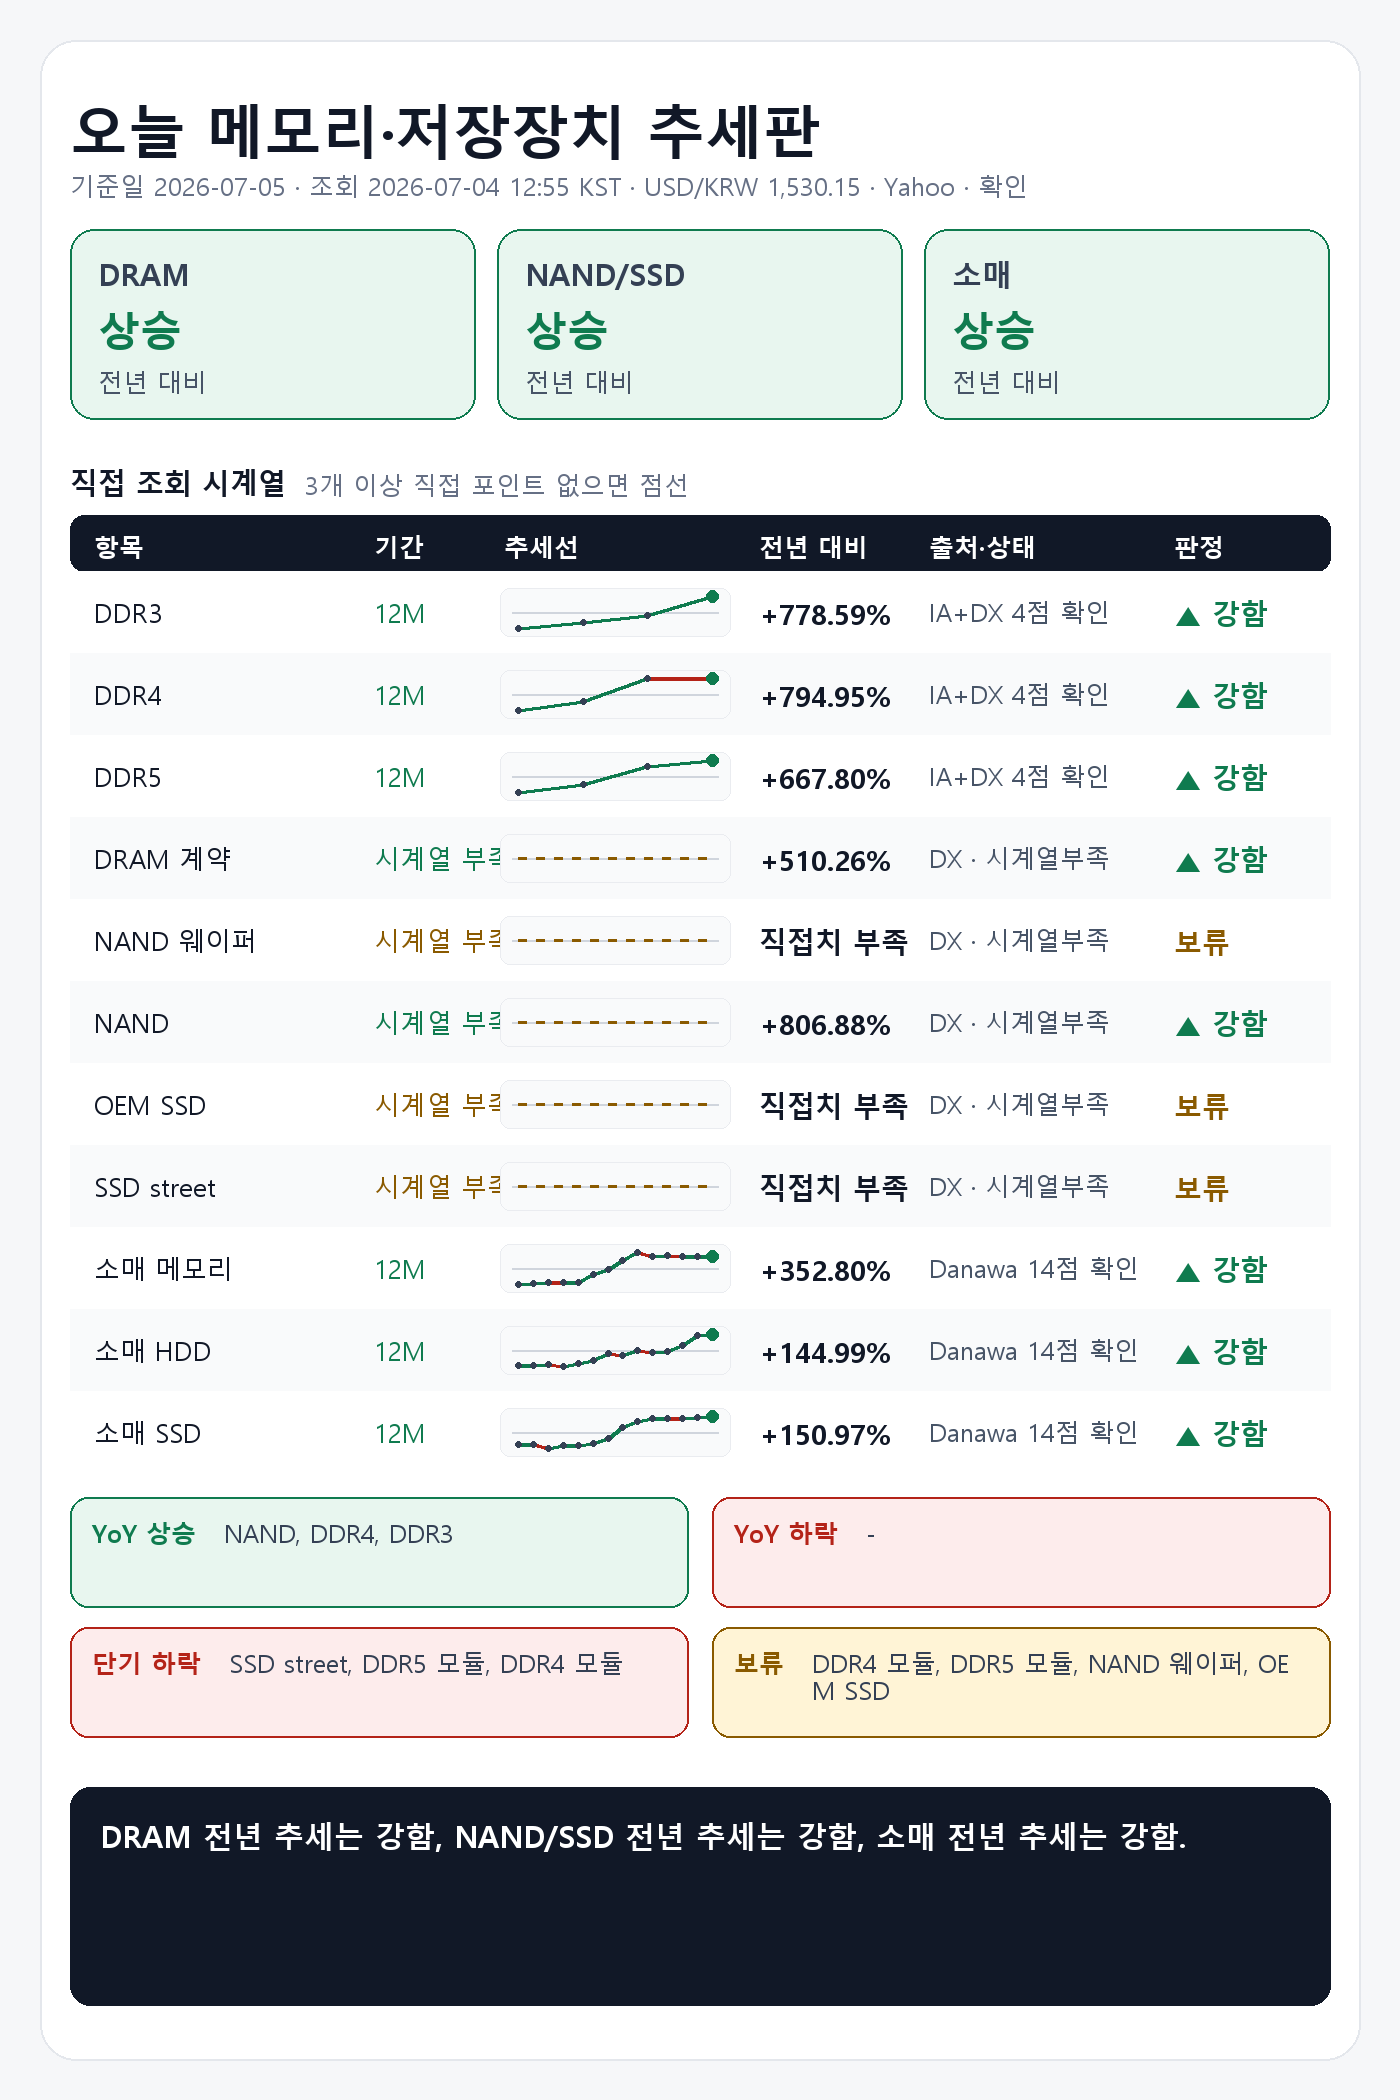
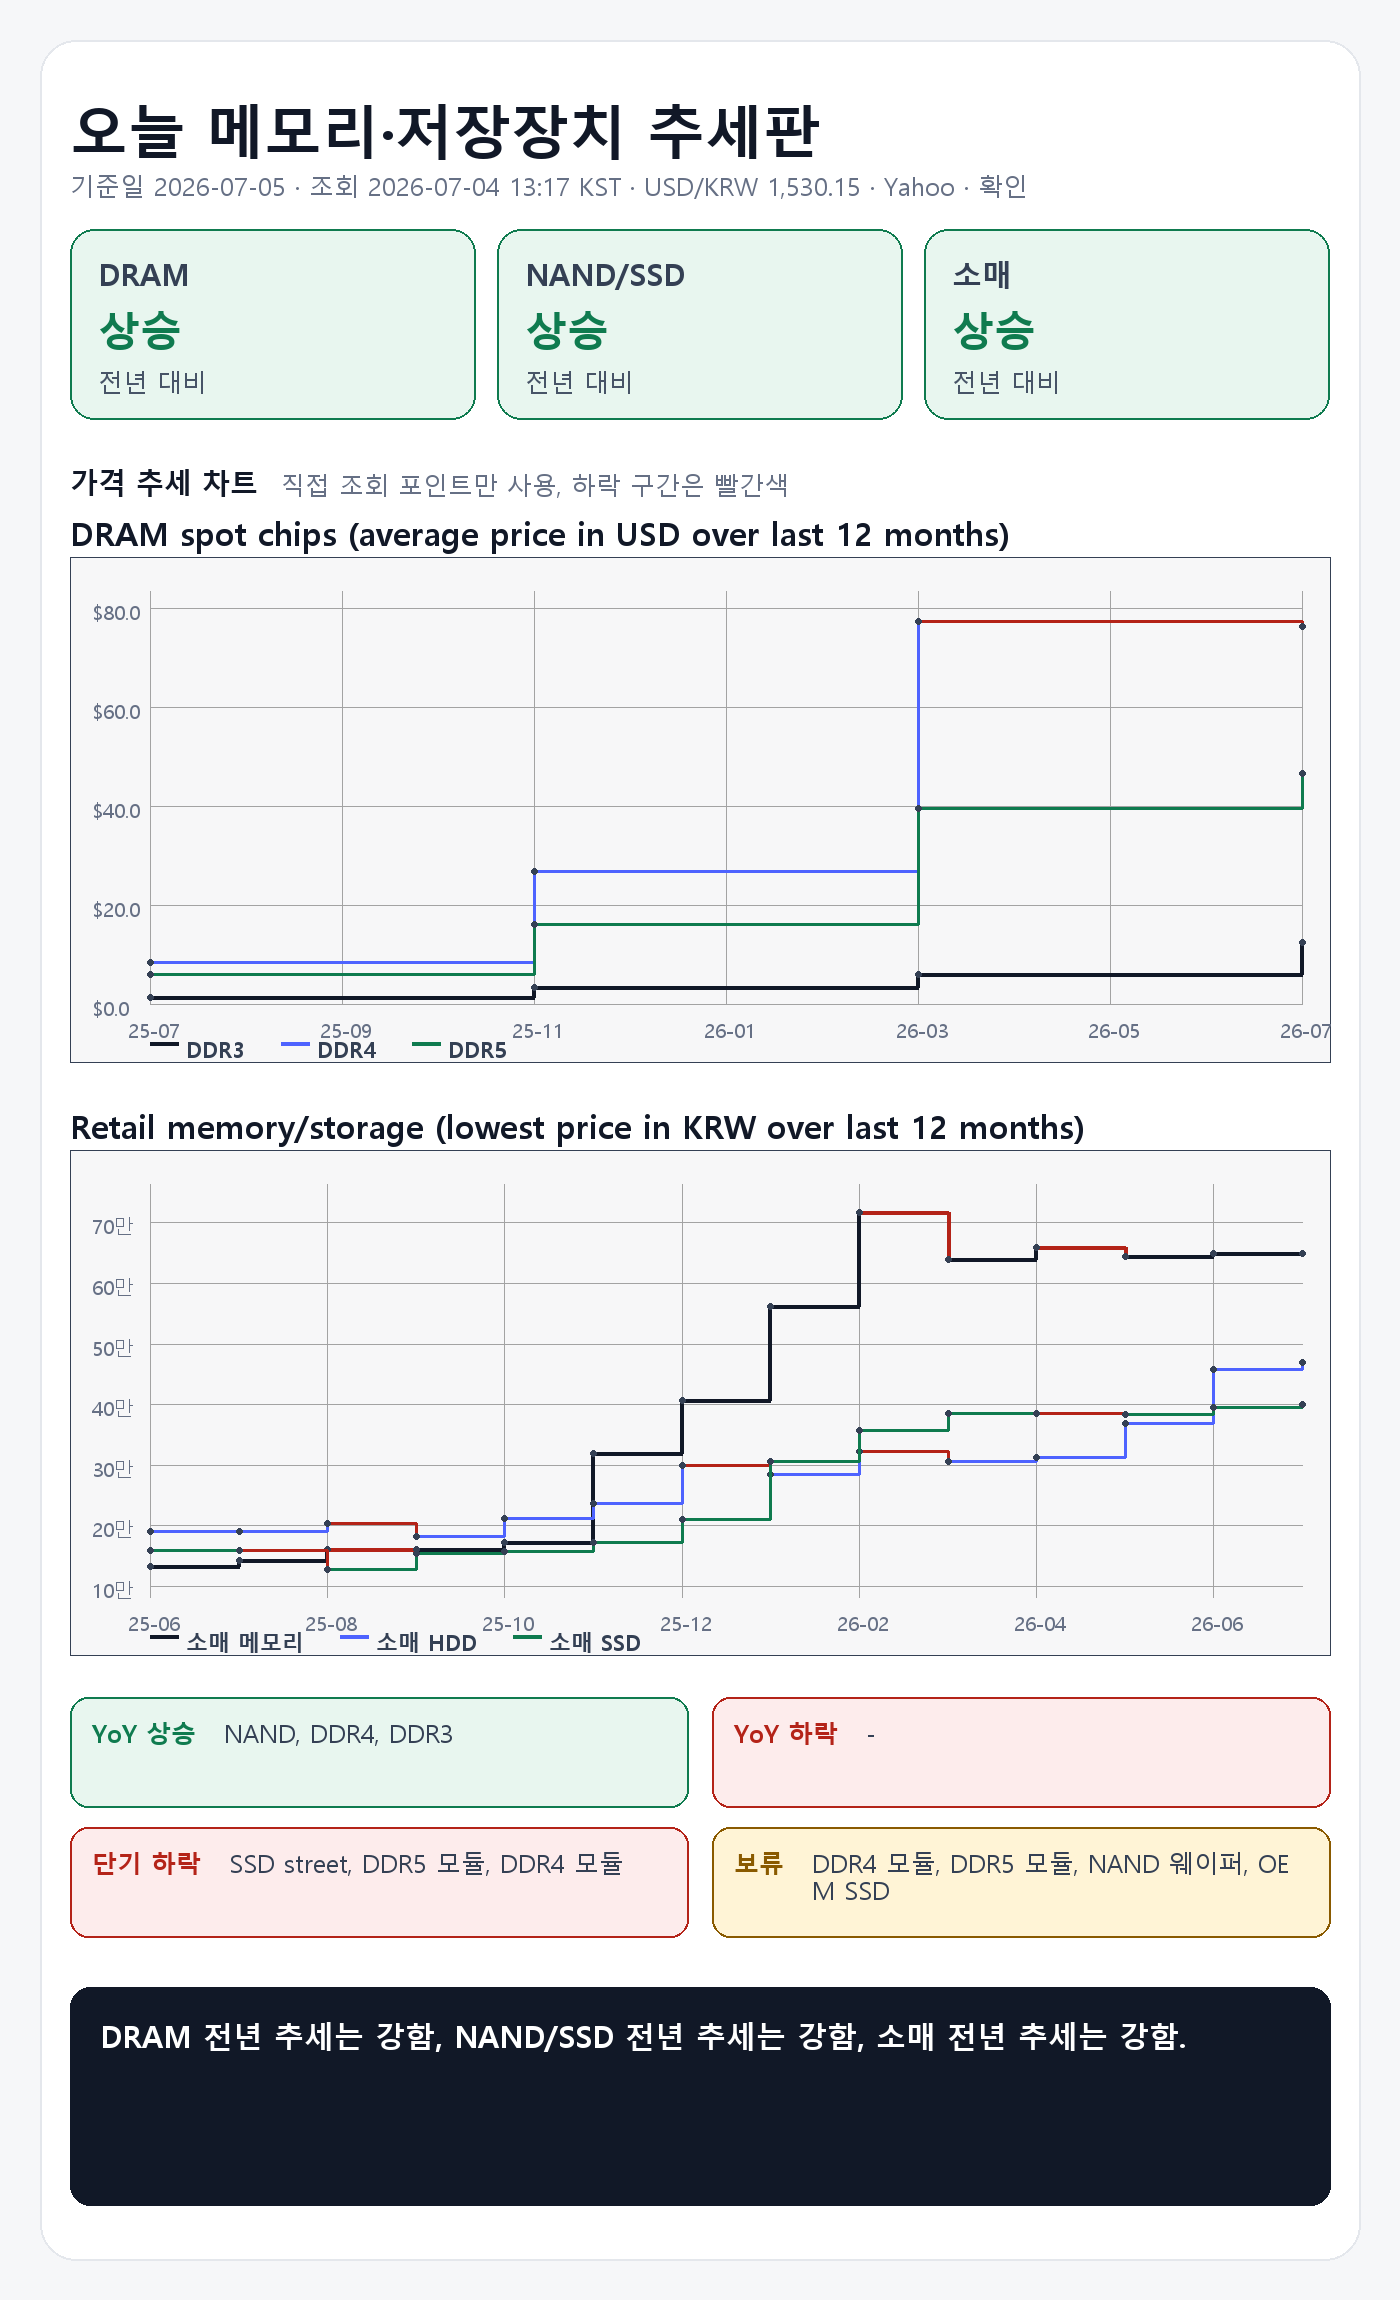
Use PCPartPicker-style trend charts

diff --git a/scripts/generate_memory_price_report.py b/scripts/generate_memory_price_report.py
@@ -1315,6 +1315,21 @@ def build_card_data(records: list[ReportRecord], rate: ExchangeRate, conclusion:
         candidates.sort(key=lambda record: record.change_pct or 0)
         return [compact_label(record.label) for record in candidates[:limit]]
 
+    def chart_series(wanted_labels: list[str]) -> list[dict[str, Any]]:
+        series: list[dict[str, Any]] = []
+        for wanted in wanted_labels:
+            record = next((item for item in records if base_label(item).startswith(wanted)), None)
+            if record is None:
+                continue
+            points = [
+                {"label": point.label, "value": point.value}
+                for point in record.trend_points
+                if point.value > 0
+            ]
+            if len(points) >= 3:
+                series.append({"label": compact_label(record.label), "unit": record.value_unit, "points": points})
+        return series
+
     summaries = summarize(records)
     priorities = [
         "DDR3 칩",
@@ -1364,6 +1379,18 @@ def build_card_data(records: list[ReportRecord], rate: ExchangeRate, conclusion:
         "title": "오늘 메모리·저장장치 추세판",
         "meta": f"기준일 {TODAY} · 조회 {QUERY_TIME} · {rate_text}",
         "boxes": [box("DRAM", "DRAM"), box("NAND/SSD", "NAND/SSD"), box("소매", "소매")],
+        "charts": [
+            {
+                "title": "DRAM spot chips (average price in USD over last 12 months)",
+                "unit": "USD",
+                "series": chart_series(["DDR3 칩", "DDR4 칩", "DDR5 칩"]),
+            },
+            {
+                "title": "Retail memory/storage (lowest price in KRW over last 12 months)",
+                "unit": "KRW",
+                "series": chart_series(["소매 메모리", "소매 HDD", "소매 SSD"]),
+            },
+        ],
         "rows": rows,
         "chips": {
             "YoY 상승": card_change_items("강함", 3),
@@ -1486,8 +1513,177 @@ def draw_trend_line(
     draw.ellipse((end_x - 6, end_y - 6, end_x + 6, end_y + 6), fill=end_color)
 
 
+def month_index(label: str) -> int | None:
+    match = re.search(r"(\d{2,4})-(\d{2})", label or "")
+    if not match:
+        return None
+    year = int(match.group(1))
+    if year < 100:
+        year += 2000
+    month = int(match.group(2))
+    if month < 1 or month > 12:
+        return None
+    return year * 12 + month - 1
+
+
+def month_label_from_index(index: int) -> str:
+    year = index // 12
+    month = index % 12 + 1
+    return f"{year % 100:02d}-{month:02d}"
+
+
+def format_chart_value(value: float, unit: str) -> str:
+    if unit == "KRW":
+        if value >= 10000:
+            return f"{round(value / 10000):,}만"
+        return f"{round(value):,}원"
+    if unit == "USD":
+        if value >= 100:
+            return f"${value:,.0f}"
+        return f"${value:,.1f}"
+    return f"{value:,.0f}"
+
+
+def nice_ticks(min_value: float, max_value: float, count: int = 6) -> list[float]:
+    if max_value <= min_value:
+        return [min_value]
+    span = max_value - min_value
+    raw_step = span / max(1, count - 1)
+    magnitude = 10 ** int(len(str(int(raw_step))) - 1) if raw_step >= 1 else 1
+    candidates = [1, 2, 5, 10]
+    step = min((candidate * magnitude for candidate in candidates), key=lambda item: abs(item - raw_step))
+    floor = (int(min_value // step)) * step
+    ticks: list[float] = []
+    value = floor
+    while value <= max_value + step:
+        if value >= 0:
+            ticks.append(float(value))
+        value += step
+    return ticks[: count + 2]
+
+
+def draw_step_series(
+    draw: ImageDraw.ImageDraw,
+    points: list[tuple[int, float]],
+    chart_left: int,
+    chart_top: int,
+    chart_right: int,
+    chart_bottom: int,
+    min_month: int,
+    max_month: int,
+    min_value: float,
+    max_value: float,
+    color: str,
+    width: int,
+) -> None:
+    if len(points) < 2:
+        return
+    month_span = max(1, max_month - min_month)
+    value_span = max(max_value - min_value, max_value * 0.02, 1e-9)
+
+    def xy(month: int, value: float) -> tuple[int, int]:
+        x = chart_left + round((month - min_month) / month_span * (chart_right - chart_left))
+        y = chart_bottom - round((value - min_value) / value_span * (chart_bottom - chart_top))
+        return x, y
+
+    coords = [(month, value, *xy(month, value)) for month, value in points]
+    for idx in range(len(coords) - 1):
+        _, current_value, x1, y1 = coords[idx]
+        _, next_value, x2, y2 = coords[idx + 1]
+        segment_color = "#B42318" if next_value < current_value else color
+        draw.line((x1, y1, x2, y1), fill=segment_color, width=width)
+        draw.line((x2, y1, x2, y2), fill=segment_color, width=width)
+    for _, _, x, y in coords:
+        draw.ellipse((x - 3, y - 3, x + 3, y + 3), fill="#344054")
+
+
+def draw_price_chart(
+    draw: ImageDraw.ImageDraw,
+    chart: dict[str, Any],
+    x: int,
+    y: int,
+    width: int,
+    height: int,
+    title_font: ImageFont.ImageFont,
+    axis_font: ImageFont.ImageFont,
+    legend_font: ImageFont.ImageFont,
+) -> None:
+    title = str(chart.get("title") or "Price trend")
+    unit = str(chart.get("unit") or "")
+    series = [item for item in chart.get("series", []) if isinstance(item, dict) and item.get("points")]
+    draw.text((x, y), title, font=title_font, fill="#111827")
+    y += 46
+
+    outer = (x, y, x + width, y + height)
+    draw.rectangle(outer, fill="#F7F7F8", outline="#344054", width=1)
+    left = x + 80
+    right = x + width - 28
+    top = y + 34
+    bottom = y + height - 58
+
+    parsed_series: list[tuple[str, list[tuple[int, float]]]] = []
+    values: list[float] = []
+    months: list[int] = []
+    for item in series:
+        parsed_points: list[tuple[int, float]] = []
+        for point in item.get("points", []):
+            if not isinstance(point, dict):
+                continue
+            idx = month_index(str(point.get("label") or ""))
+            value = parse_float(point.get("value"))
+            if idx is None or value is None:
+                continue
+            parsed_points.append((idx, value))
+        parsed_points = sorted(dict(parsed_points).items())
+        if len(parsed_points) < 2:
+            continue
+        parsed_series.append((str(item.get("label") or "-"), parsed_points))
+        months.extend(month for month, _ in parsed_points)
+        values.extend(value for _, value in parsed_points)
+
+    if not parsed_series:
+        draw.text((left, top + 100), "직접 조회 시계열 부족", font=title_font, fill="#8A5A00")
+        return
+
+    min_month, max_month = min(months), max(months)
+    min_value, max_value = min(values), max(values)
+    pad = max((max_value - min_value) * 0.08, max_value * 0.02, 1)
+    min_value = max(0, min_value - pad)
+    max_value = max_value + pad
+    ticks = nice_ticks(min_value, max_value, 6)
+
+    for tick in ticks:
+        if tick < min_value or tick > max_value:
+            continue
+        yy = bottom - round((tick - min_value) / max(max_value - min_value, 1e-9) * (bottom - top))
+        draw.line((left, yy, right, yy), fill="#A3A3A3", width=1)
+        label = format_chart_value(tick, unit)
+        draw.text((x + 22, yy - 10), label, font=axis_font, fill="#667085")
+
+    span = max_month - min_month
+    x_step = max(1, round(span / 6))
+    tick_month = min_month
+    while tick_month <= max_month:
+        xx = left + round((tick_month - min_month) / max(1, span) * (right - left))
+        draw.line((xx, top, xx, bottom), fill="#A3A3A3", width=1)
+        draw.text((xx - 22, bottom + 12), month_label_from_index(tick_month), font=axis_font, fill="#667085")
+        tick_month += x_step
+
+    colors = ["#111827", "#4E63FF", "#0F7B4F", "#B54708", "#7A5AF8"]
+    for idx, (label, points) in enumerate(parsed_series):
+        draw_step_series(draw, points, left, top, right, bottom, min_month, max_month, min_value, max_value, colors[idx % len(colors)], 4 if idx == 0 else 3)
+
+    legend_x = left
+    legend_y = y + height - 28
+    for idx, (label, _) in enumerate(parsed_series):
+        color = colors[idx % len(colors)]
+        draw.line((legend_x, legend_y + 9, legend_x + 28, legend_y + 9), fill=color, width=4)
+        draw.text((legend_x + 36, legend_y), label, font=legend_font, fill="#344054")
+        legend_x += min(210, 72 + text_width(draw, label, legend_font))
+
+
 def create_card_png(card: dict[str, Any], output_path: Path) -> None:
-    width, height = 1400, 2100
+    width, height = 1400, 2300
     image = Image.new("RGB", (width, height), "#F6F7F9")
     draw = ImageDraw.Draw(image)
 
@@ -1497,9 +1693,11 @@ def create_card_png(card: dict[str, Any], output_path: Path) -> None:
     box_status_font = font(42, bold=True)
     table_font = font(26)
     table_bold_font = font(28, bold=True)
-    trend_font = font(27, bold=True)
     chip_font = font(25, bold=True)
     conclusion_font = font(30, bold=True)
+    chart_title_font = font(32, bold=True)
+    axis_font = font(20)
+    legend_font = font(22, bold=True)
 
     margin = 70
     draw.rounded_rectangle((40, 40, width - 40, height - 40), radius=36, fill="#FFFFFF", outline="#E4E7EC", width=2)
@@ -1525,41 +1723,14 @@ def create_card_png(card: dict[str, Any], output_path: Path) -> None:
         draw.text((x + 28, y + 135), str(box.get("basis") or UNAVAILABLE), font=meta_font, fill="#475467")
     y += box_h + 44
 
-    draw.text((margin, y), "직접 조회 시계열", font=table_bold_font, fill="#111827")
-    draw.text((margin + 235, y + 4), "3개 이상 직접 포인트 없으면 점선", font=meta_font, fill="#667085")
-    y += 52
-    header_h = 56
-    draw.rounded_rectangle((margin, y, width - margin, y + header_h), radius=14, fill="#111827")
-    headers = [("항목", 0), ("기간", 280), ("추세선", 410), ("전년 대비", 665), ("출처·상태", 835), ("판정", 1080)]
-    for label, offset in headers:
-        draw.text((margin + 24 + offset, y + 14), label, font=chip_font, fill="#FFFFFF")
-    y += header_h
-
-    rows = (card.get("rows") or [])[:11]
-    row_h = 82
-    for idx, row in enumerate(rows):
-        bg = "#FFFFFF" if idx % 2 == 0 else "#F9FAFB"
-        draw.rectangle((margin, y, width - margin, y + row_h), fill=bg)
-        draw.text((margin + 24, y + 23), str(row.get("item") or "-")[:18], font=table_font, fill="#111827")
-        trend = str(row.get("trend") or "보류")
-        trend_pct = row.get("trend_pct")
-        trend_color, _ = status_color(trend)
-        draw.text((margin + 304, y + 23), str(row.get("basis") or "-")[:8], font=table_font, fill=trend_color)
-        series = row.get("series")
-        draw_trend_line(
-            draw,
-            margin + 430,
-            y + 17,
-            trend_pct if isinstance(trend_pct, (int, float)) else None,
-            series if isinstance(series, list) else None,
-        )
-        draw.text((margin + 689, y + 23), str(row.get("change") or "-")[:10], font=table_bold_font, fill="#111827")
-        draw.text((margin + 859, y + 23), str(row.get("source_status") or "-")[:18], font=meta_font, fill="#475467")
-        verdict = str(row.get("verdict") or "보류")
-        color, _ = status_color(verdict)
-        draw.text((margin + 1104, y + 23), verdict[:14], font=table_bold_font, fill=color)
-        y += row_h
-    y += 24
+    draw.text((margin, y), "가격 추세 차트", font=table_bold_font, fill="#111827")
+    draw.text((margin + 210, y + 4), "직접 조회 포인트만 사용, 하락 구간은 빨간색", font=meta_font, fill="#667085")
+    y += 48
+    charts = (card.get("charts") or [])[:2]
+    chart_h = 505
+    for chart in charts:
+        draw_price_chart(draw, chart, margin, y, width - margin * 2, chart_h, chart_title_font, axis_font, legend_font)
+        y += chart_h + 88
 
     chips = card.get("chips") or {}
     chip_labels = ["YoY 상승", "YoY 하락", "단기 하락", "보류"]

diff --git a/reports/memory_price_report_2026-07-05.md b/reports/memory_price_report_2026-07-05.md
@@ -1,5 +1,5 @@
 ## 1. 기준 환율 1줄
-USD/KRW: 1,530.15원 (조회 2026-07-04 12:55 KST, 출처 Yahoo Finance USDKRW=X, 원문 Last Update 2026-07-04 05:27 KST, 상태 확인, 전일 대비 -0.33%).
+USD/KRW: 1,530.15원 (조회 2026-07-04 13:17 KST, 출처 Yahoo Finance USDKRW=X, 원문 Last Update 2026-07-04 05:27 KST, 상태 확인, 전일 대비 -0.33%).
 
 ## 2. 오늘 한눈에 추세판
 | 구분 | 현재값 | 전일 | 전주 | 전월 | 전년 | 추세 | 판정 |
@@ -27,19 +27,19 @@ USD/KRW: 1,530.15원 (조회 2026-07-04 12:55 KST, 출처 Yahoo Finance USDKRW=X
 ## 4. 가격표
 | 항목 | 현재값 | 조회 시각·출처·상태 | 원문 Last Update | 전월 대비 | 전년 대비 | 추세 |
 |---|---:|---|---|---|---|---|
-| DDR3 칩 | $12.476 (약 19,090원) | 2026-07-04 12:55 KST · DRAMeXchange 공개표 (https://www.dramexchange.com/Price/Dram_Spot) · 상태 확인 | 홈 공개표, 원문 Last Update 별도 없음 | 확인 불가 | 전년 대비 +778.59% · 전년값 캡처 2025-07-02 04:01 KST, 원문 Last Update 별도 없음, 항목 DDR3 4Gb 512Mx8 1600/1866 · 출처 Internet Archive DRAMeXchange 공개표 캡처 | 공개 변화율 +1.09% 기준 상승 |
-| DDR4 칩 | $76.375 (약 116,865원) | 2026-07-04 12:55 KST · DRAMeXchange 공개표 (https://www.dramexchange.com/Price/Dram_Spot) · 상태 확인 | 홈 공개표, 원문 Last Update 별도 없음 | 확인 불가 | 전년 대비 +794.95% · 전년값 캡처 2025-07-02 04:01 KST, 원문 Last Update 별도 없음, 항목 DDR4 16Gb (2Gx8)3200 · 출처 Internet Archive DRAMeXchange 공개표 캡처 | 공개 변화율 +1.16% 기준 상승 |
-| DDR5 칩 | $46.667 (약 71,408원) | 2026-07-04 12:55 KST · DRAMeXchange 공개표 (https://www.dramexchange.com/Price/Dram_Spot) · 상태 확인 | 홈 공개표, 원문 Last Update 별도 없음 | 확인 불가 | 전년 대비 +667.80% · 전년값 캡처 2025-07-02 04:01 KST, 원문 Last Update 별도 없음, 항목 DDR5 16G (2Gx8) 4800/5600 · 출처 Internet Archive DRAMeXchange 공개표 캡처 | 공개 변화율 +0.07% 기준 보합 |
-| DDR4 모듈 | $149.576 (약 228,874원) | 2026-07-04 12:55 KST · DRAMeXchange 공개표 (https://www.dramexchange.com/Price/Module_Spot) · 상태 확인 | 홈 공개표, 원문 Last Update 별도 없음 | 확인 불가 | 전년 직접치 부족 | 공개 변화율 -0.23% 기준 보합 |
-| DDR5 모듈 | $208.500 (약 319,036원) | 2026-07-04 12:55 KST · DRAMeXchange 공개표 (https://www.dramexchange.com/Price/Module_Spot) · 상태 확인 | 홈 공개표, 원문 Last Update 별도 없음 | 확인 불가 | 전년 직접치 부족 | 공개 변화율 -0.24% 기준 보합 |
-| DRAM 계약가 (DDR4 8GB SO-DIMM) | $119.000 (약 182,088원) | 2026-07-04 12:55 KST · DRAMeXchange HomePrice NationalDramContract (https://www.dramexchange.com/Price/NationalContractDramDetail) · 상태 확인 | 2026-05-29 15:00:00 | 공개 변화율 +0.00%, 기준값 확인 불가 | 전년 대비 +510.26% · 전년값 원문 2025-05-29 16:00:00, 캡처 2025-07-07 16:02 KST · 출처 Internet Archive DRAMeXchange HomePrice NationalDramContract 캡처 | 공개 변화율 +0.00% 기준 보합 |
-| NAND 웨이퍼 | 확인 불가 | 2026-07-04 12:55 KST · DRAMeXchange 공개표 (https://www.dramexchange.com/) · 상태 확인 불가 | 확인 불가 | 확인 불가 | 현재 직접치 부족 | 확인 불가 |
-| NAND 계약가 (NAND 128Gb 16Gx8 Speedns) | $26.508 (약 40,561원) | 2026-07-04 12:55 KST · DRAMeXchange HomePrice NationalFlashContract (https://www.dramexchange.com/Price/NationalContractFlashDetail) · 상태 확인 | 2026-05-29 10:00:00 | 공개 변화율 +9.73%, 기준값 확인 불가 | 전년 대비 +806.88% · 전년값 원문 2025-05-29 09:00:00, 캡처 2025-07-07 16:02 KST · 출처 Internet Archive DRAMeXchange HomePrice NationalFlashContract 캡처 | 공개 변화율 +9.73% 기준 상승 |
-| PC-client OEM SSD 계약가 (1TB-mSATA/M.2 TLC PCIe-Value Grade) | 지연/불일치 있음 | 2026-07-04 12:55 KST · DRAMeXchange HomePrice PCC (https://www.dramexchange.com/Price/PCClientOEMSSD) · 상태 지연/불일치 있음 | 2026-04-27 10:00:00 | 지연/불일치 있음 | 현재 직접치 부족 | 지연/불일치 있음 |
-| SSD street price (990 Pro) | $219.990 (약 336,618원) | 2026-07-04 12:55 KST · DRAMeXchange HomePrice SSD (https://www.dramexchange.com/Price/SSD_Street) · 상태 확인 | 2026-06-26 13:00:00 | 공개 변화율 -12.00%, 기준값 확인 불가 | 전년 직접치 부족 | 공개 변화율 -12.00% 기준 하락 |
-| 소매 메모리 (삼성전자 DDR5-5600 32GB) | 650,000원 | 2026-07-04 12:55 KST · Danawa prod 가격비교 · 삼성전자 DDR5-5600 32GB (https://prod.danawa.com/info/?pcode=20644043) · 상태 확인 | 상품 페이지 직접 조회, 원문 Last Update 별도 없음 | 확인 불가 | 전년 대비 +352.80% · 전년값 25-07 월간 가격추이 · 출처 Danawa 가격추이 24개월 · 삼성전자 DDR5-5600 32GB | 비교 기준값 확인 불가 |
-| 소매 HDD (Seagate BarraCuda 8TB) | 469,000원 | 2026-07-04 12:55 KST · Danawa prod 가격비교 · Seagate BarraCuda 8TB (https://prod.danawa.com/info/?pcode=5764992) · 상태 확인 | 상품 페이지 직접 조회, 원문 Last Update 별도 없음 | 확인 불가 | 전년 대비 +144.99% · 전년값 25-07 월간 가격추이 · 출처 Danawa 가격추이 24개월 · Seagate BarraCuda 8TB | 비교 기준값 확인 불가 |
-| 소매 SSD (Samsung 990 PRO 1TB) | 399,990원 | 2026-07-04 12:55 KST · Danawa prod 가격비교 · Samsung 990 PRO 1TB (https://prod.danawa.com/info/?pcode=18297002) · 상태 확인 | 상품 페이지 직접 조회, 원문 Last Update 별도 없음 | 확인 불가 | 전년 대비 +150.97% · 전년값 25-07 월간 가격추이 · 출처 Danawa 가격추이 24개월 · Samsung 990 PRO 1TB | 비교 기준값 확인 불가 |
+| DDR3 칩 | $12.476 (약 19,090원) | 2026-07-04 13:17 KST · DRAMeXchange 공개표 (https://www.dramexchange.com/Price/Dram_Spot) · 상태 확인 | 홈 공개표, 원문 Last Update 별도 없음 | 확인 불가 | 전년 대비 +778.59% · 전년값 캡처 2025-07-02 04:01 KST, 원문 Last Update 별도 없음, 항목 DDR3 4Gb 512Mx8 1600/1866 · 출처 Internet Archive DRAMeXchange 공개표 캡처 | 공개 변화율 +1.09% 기준 상승 |
+| DDR4 칩 | $76.375 (약 116,865원) | 2026-07-04 13:17 KST · DRAMeXchange 공개표 (https://www.dramexchange.com/Price/Dram_Spot) · 상태 확인 | 홈 공개표, 원문 Last Update 별도 없음 | 확인 불가 | 전년 대비 +794.95% · 전년값 캡처 2025-07-02 04:01 KST, 원문 Last Update 별도 없음, 항목 DDR4 16Gb (2Gx8)3200 · 출처 Internet Archive DRAMeXchange 공개표 캡처 | 공개 변화율 +1.16% 기준 상승 |
+| DDR5 칩 | $46.667 (약 71,408원) | 2026-07-04 13:17 KST · DRAMeXchange 공개표 (https://www.dramexchange.com/Price/Dram_Spot) · 상태 확인 | 홈 공개표, 원문 Last Update 별도 없음 | 확인 불가 | 전년 대비 +667.80% · 전년값 캡처 2025-07-02 04:01 KST, 원문 Last Update 별도 없음, 항목 DDR5 16G (2Gx8) 4800/5600 · 출처 Internet Archive DRAMeXchange 공개표 캡처 | 공개 변화율 +0.07% 기준 보합 |
+| DDR4 모듈 | $149.576 (약 228,874원) | 2026-07-04 13:17 KST · DRAMeXchange 공개표 (https://www.dramexchange.com/Price/Module_Spot) · 상태 확인 | 홈 공개표, 원문 Last Update 별도 없음 | 확인 불가 | 전년 직접치 부족 | 공개 변화율 -0.23% 기준 보합 |
+| DDR5 모듈 | $208.500 (약 319,036원) | 2026-07-04 13:17 KST · DRAMeXchange 공개표 (https://www.dramexchange.com/Price/Module_Spot) · 상태 확인 | 홈 공개표, 원문 Last Update 별도 없음 | 확인 불가 | 전년 직접치 부족 | 공개 변화율 -0.24% 기준 보합 |
+| DRAM 계약가 (DDR4 8GB SO-DIMM) | $119.000 (약 182,088원) | 2026-07-04 13:17 KST · DRAMeXchange HomePrice NationalDramContract (https://www.dramexchange.com/Price/NationalContractDramDetail) · 상태 확인 | 2026-05-29 15:00:00 | 공개 변화율 +0.00%, 기준값 확인 불가 | 전년 대비 +510.26% · 전년값 원문 2025-05-29 16:00:00, 캡처 2025-07-07 16:02 KST · 출처 Internet Archive DRAMeXchange HomePrice NationalDramContract 캡처 | 공개 변화율 +0.00% 기준 보합 |
+| NAND 웨이퍼 | 확인 불가 | 2026-07-04 13:17 KST · DRAMeXchange 공개표 (https://www.dramexchange.com/) · 상태 확인 불가 | 확인 불가 | 확인 불가 | 현재 직접치 부족 | 확인 불가 |
+| NAND 계약가 (NAND 128Gb 16Gx8 Speedns) | $26.508 (약 40,561원) | 2026-07-04 13:17 KST · DRAMeXchange HomePrice NationalFlashContract (https://www.dramexchange.com/Price/NationalContractFlashDetail) · 상태 확인 | 2026-05-29 10:00:00 | 공개 변화율 +9.73%, 기준값 확인 불가 | 전년 대비 +806.88% · 전년값 원문 2025-05-29 09:00:00, 캡처 2025-07-07 16:02 KST · 출처 Internet Archive DRAMeXchange HomePrice NationalFlashContract 캡처 | 공개 변화율 +9.73% 기준 상승 |
+| PC-client OEM SSD 계약가 (1TB-mSATA/M.2 TLC PCIe-Value Grade) | 지연/불일치 있음 | 2026-07-04 13:17 KST · DRAMeXchange HomePrice PCC (https://www.dramexchange.com/Price/PCClientOEMSSD) · 상태 지연/불일치 있음 | 2026-04-27 10:00:00 | 지연/불일치 있음 | 현재 직접치 부족 | 지연/불일치 있음 |
+| SSD street price (990 Pro) | $219.990 (약 336,618원) | 2026-07-04 13:17 KST · DRAMeXchange HomePrice SSD (https://www.dramexchange.com/Price/SSD_Street) · 상태 확인 | 2026-06-26 13:00:00 | 공개 변화율 -12.00%, 기준값 확인 불가 | 전년 직접치 부족 | 공개 변화율 -12.00% 기준 하락 |
+| 소매 메모리 (삼성전자 DDR5-5600 32GB) | 650,000원 | 2026-07-04 13:17 KST · Danawa prod 가격비교 · 삼성전자 DDR5-5600 32GB (https://prod.danawa.com/info/?pcode=20644043) · 상태 확인 | 상품 페이지 직접 조회, 원문 Last Update 별도 없음 | 확인 불가 | 전년 대비 +352.80% · 전년값 25-07 월간 가격추이 · 출처 Danawa 가격추이 24개월 · 삼성전자 DDR5-5600 32GB | 비교 기준값 확인 불가 |
+| 소매 HDD (Seagate BarraCuda 8TB) | 469,000원 | 2026-07-04 13:17 KST · Danawa prod 가격비교 · Seagate BarraCuda 8TB (https://prod.danawa.com/info/?pcode=5764992) · 상태 확인 | 상품 페이지 직접 조회, 원문 Last Update 별도 없음 | 확인 불가 | 전년 대비 +144.99% · 전년값 25-07 월간 가격추이 · 출처 Danawa 가격추이 24개월 · Seagate BarraCuda 8TB | 비교 기준값 확인 불가 |
+| 소매 SSD (Samsung 990 PRO 1TB) | 399,990원 | 2026-07-04 13:17 KST · Danawa prod 가격비교 · Samsung 990 PRO 1TB (https://prod.danawa.com/info/?pcode=18297002) · 상태 확인 | 상품 페이지 직접 조회, 원문 Last Update 별도 없음 | 확인 불가 | 전년 대비 +150.97% · 전년값 25-07 월간 가격추이 · 출처 Danawa 가격추이 24개월 · Samsung 990 PRO 1TB | 비교 기준값 확인 불가 |
 
 ## 5. 마지막 한 줄
 전년 기준으로 가장 강한 쪽은 NAND 계약가, 가장 약한 쪽은 소매 HDD, DRAM 전년 추세는 강함, NAND/SSD 전년 추세는 강함.

diff --git a/README_MEMORY_PRICE_AUTOMATION.md b/README_MEMORY_PRICE_AUTOMATION.md
@@ -6,7 +6,7 @@
 
 OpenAI API를 사용하지 않습니다. 스크립트가 직접 접근 가능한 웹/API만 조회하고, 조회 실패, 지연 데이터, 출처 간 불일치, 접근 제한, 기준값 부족이 있으면 값을 추정하거나 재사용하지 않고 `확인 불가` 또는 `지연/불일치 있음`으로 표시합니다.
 
-이미지 요약판은 가장 엄격한 출력물이자 전년 대비 추세 확인용 화면으로 처리합니다. 이미지 안에는 `확인` 상태의 현재 직접 조회값과 현재 접근 가능한 전년 직접 조회값이 모두 있을 때만 전년 대비 숫자와 판정을 사용합니다. 추세선은 최소 3개 이상의 직접 조회 시계열 포인트가 있을 때만 실제 꺾은선으로 표시하고, 중간 구간이 하락하면 빨간 세그먼트로 표시합니다. 전년값과 시계열은 DRAMeXchange 공개표의 Internet Archive 캡처, Danawa 24개월 가격추이 API, 또는 저장소에 쌓인 검증 스냅샷 순서로 확인합니다. 전년 직접치가 없거나 로그인/유료/접근제한/지연 데이터/품목 불일치 등으로 과거 시계열을 직접 확인하지 못하면 임의 추세선을 만들지 않고 점선과 `전년 직접치 부족` 또는 `시계열 부족`으로 표시합니다. `확인 불가` 또는 `지연/불일치 있음` 상태인 값은 원본 객체에 숫자가 남아 있어도 이미지에서 숫자나 추세선으로 노출하지 않고 보류로 표시합니다.
+이미지 요약판은 가장 엄격한 출력물이자 전년 대비 추세 확인용 화면으로 처리합니다. 이미지는 PCPartPicker Trends처럼 큰 좌표축, 월별 x축, 가격 y축, 격자, 계단형 가격선을 중심으로 구성합니다. 이미지 안에는 `확인` 상태의 현재 직접 조회값과 현재 접근 가능한 전년 직접 조회값이 모두 있을 때만 전년 대비 숫자와 판정을 사용합니다. 추세선은 최소 3개 이상의 직접 조회 시계열 포인트가 있을 때만 실제 꺾은선으로 표시하고, 중간 구간이 하락하면 빨간 세그먼트로 표시합니다. 전년값과 시계열은 DRAMeXchange 공개표의 Internet Archive 캡처, Danawa 24개월 가격추이 API, 또는 저장소에 쌓인 검증 스냅샷 순서로 확인합니다. 전년 직접치가 없거나 로그인/유료/접근제한/지연 데이터/품목 불일치 등으로 과거 시계열을 직접 확인하지 못하면 임의 추세선을 만들지 않고 점선과 `전년 직접치 부족` 또는 `시계열 부족`으로 표시합니다. `확인 불가` 또는 `지연/불일치 있음` 상태인 값은 원본 객체에 숫자가 남아 있어도 이미지에서 숫자나 추세선으로 노출하지 않고 보류로 표시합니다.
 
 ## 작동 방식
 